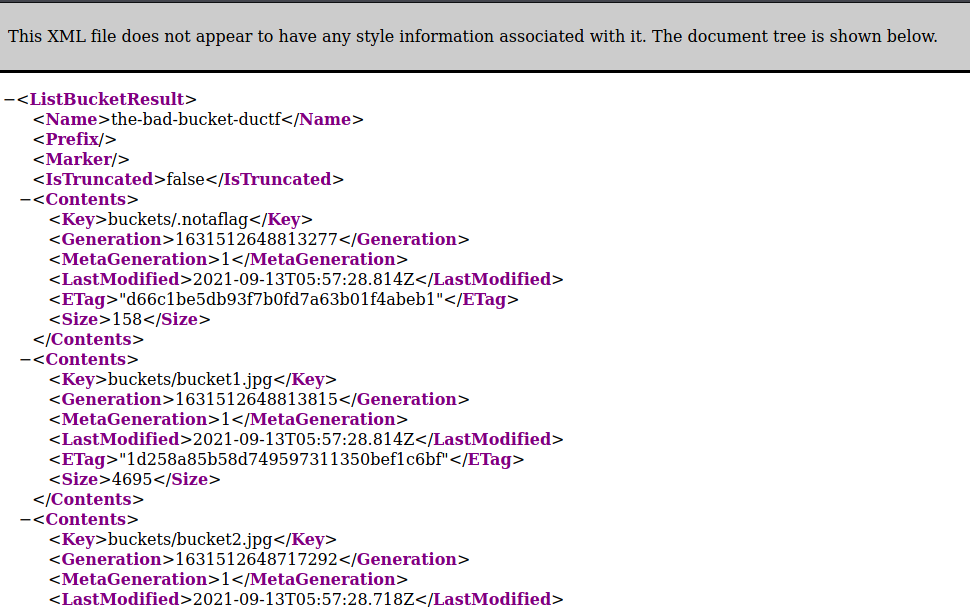
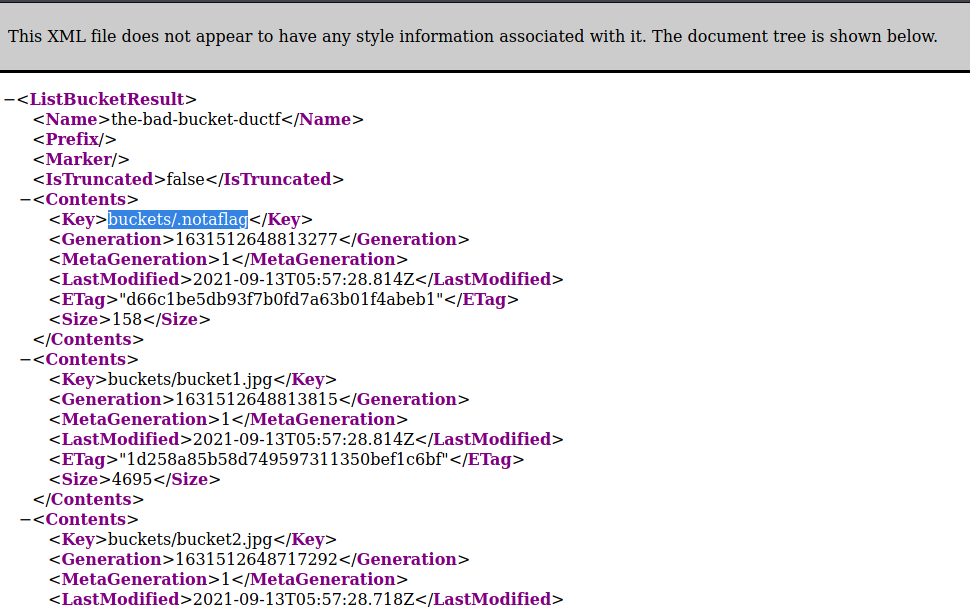
commit

Changed region(s): [[0.0, 0.1557, 0.5876, 0.9967], [0.0, 0.0934, 1.0, 0.1246]]

diff --git a/DownUnderCTF_2021/README.md b/DownUnderCTF_2021/README.md
@@ -196,6 +196,10 @@ Our next Journey brings us to the cloud. Based on the hint we were offered a new
 
  <img src="https://raw.githubusercontent.com/bsempir0x65/CTF_Writeups/main/DownUnderCTF_2021/img/bad_bucket_root.png" alt="General Skills Quiz" width="50%" height="50%">
 
+So we saw an interesting file under contents which indicates us that we are on the wrong track cause its not a flag :laughing:
+We opend it nevertheless and found our flag:
+
+ <img src="https://raw.githubusercontent.com/bsempir0x65/CTF_Writeups/main/DownUnderCTF_2021/img/bad_bucket_flag.png" alt="General Skills Quiz" width="50%" height="50%">
 
 # No Strings
 
